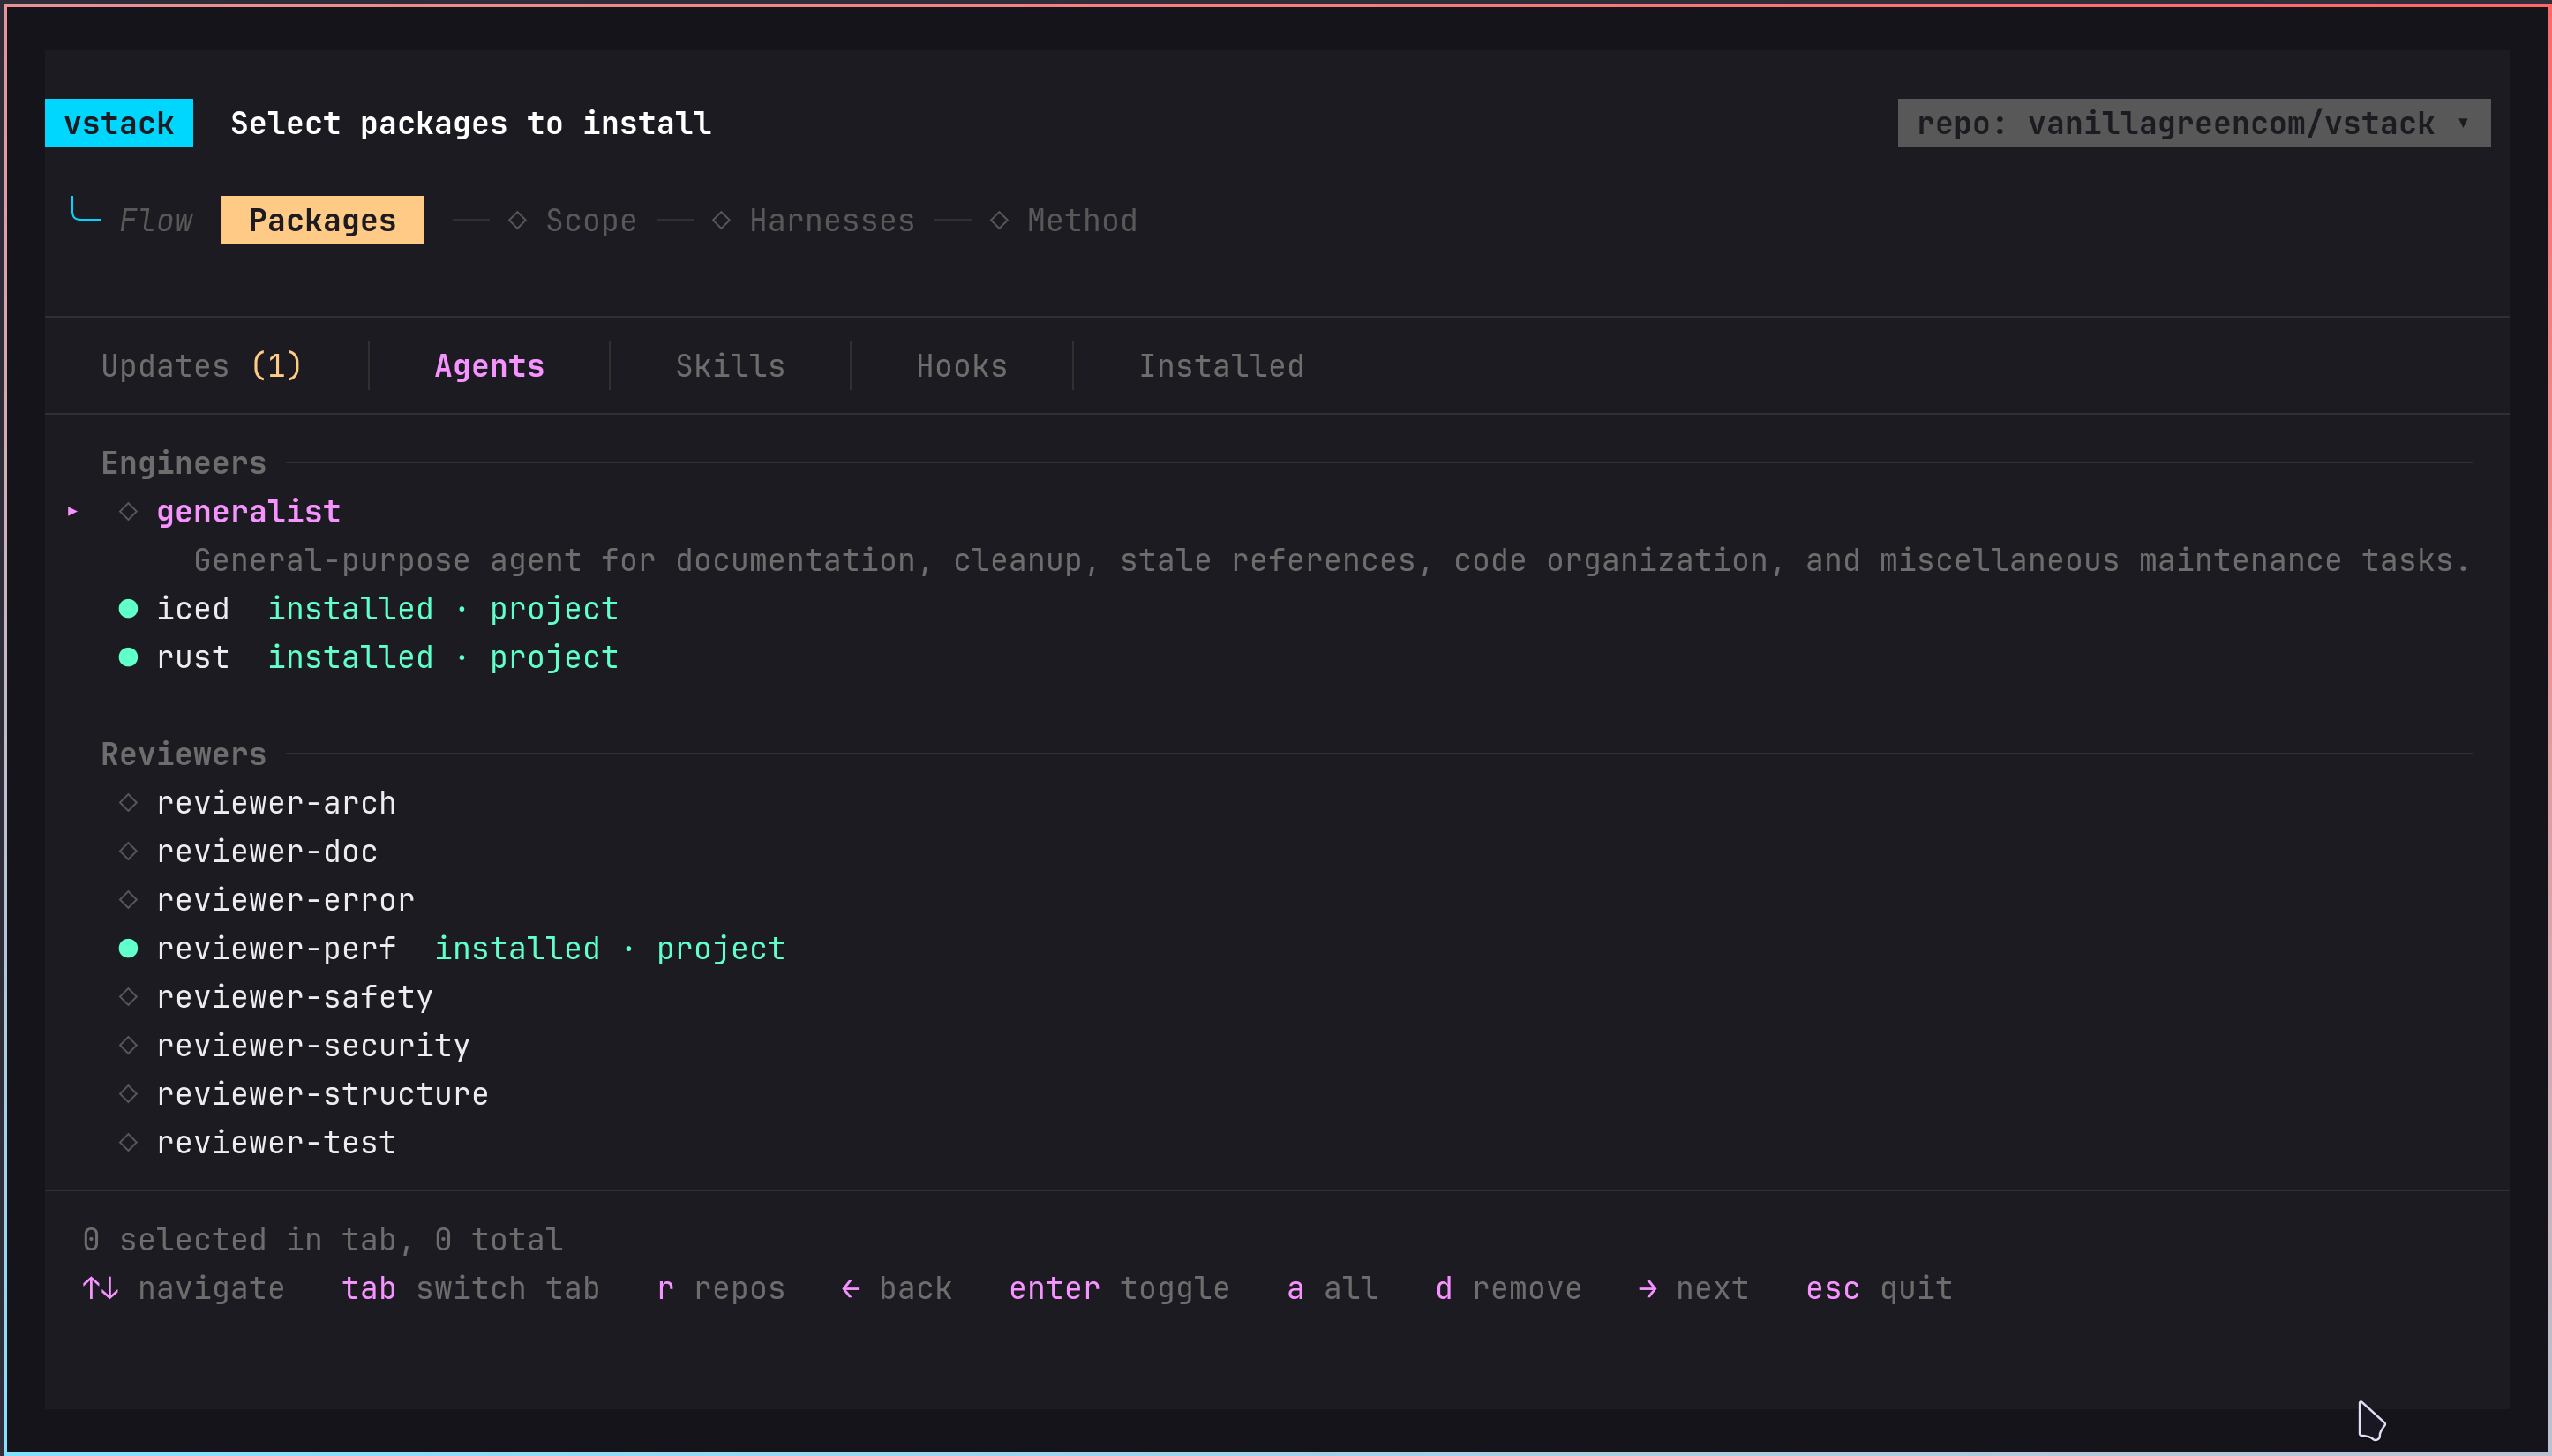
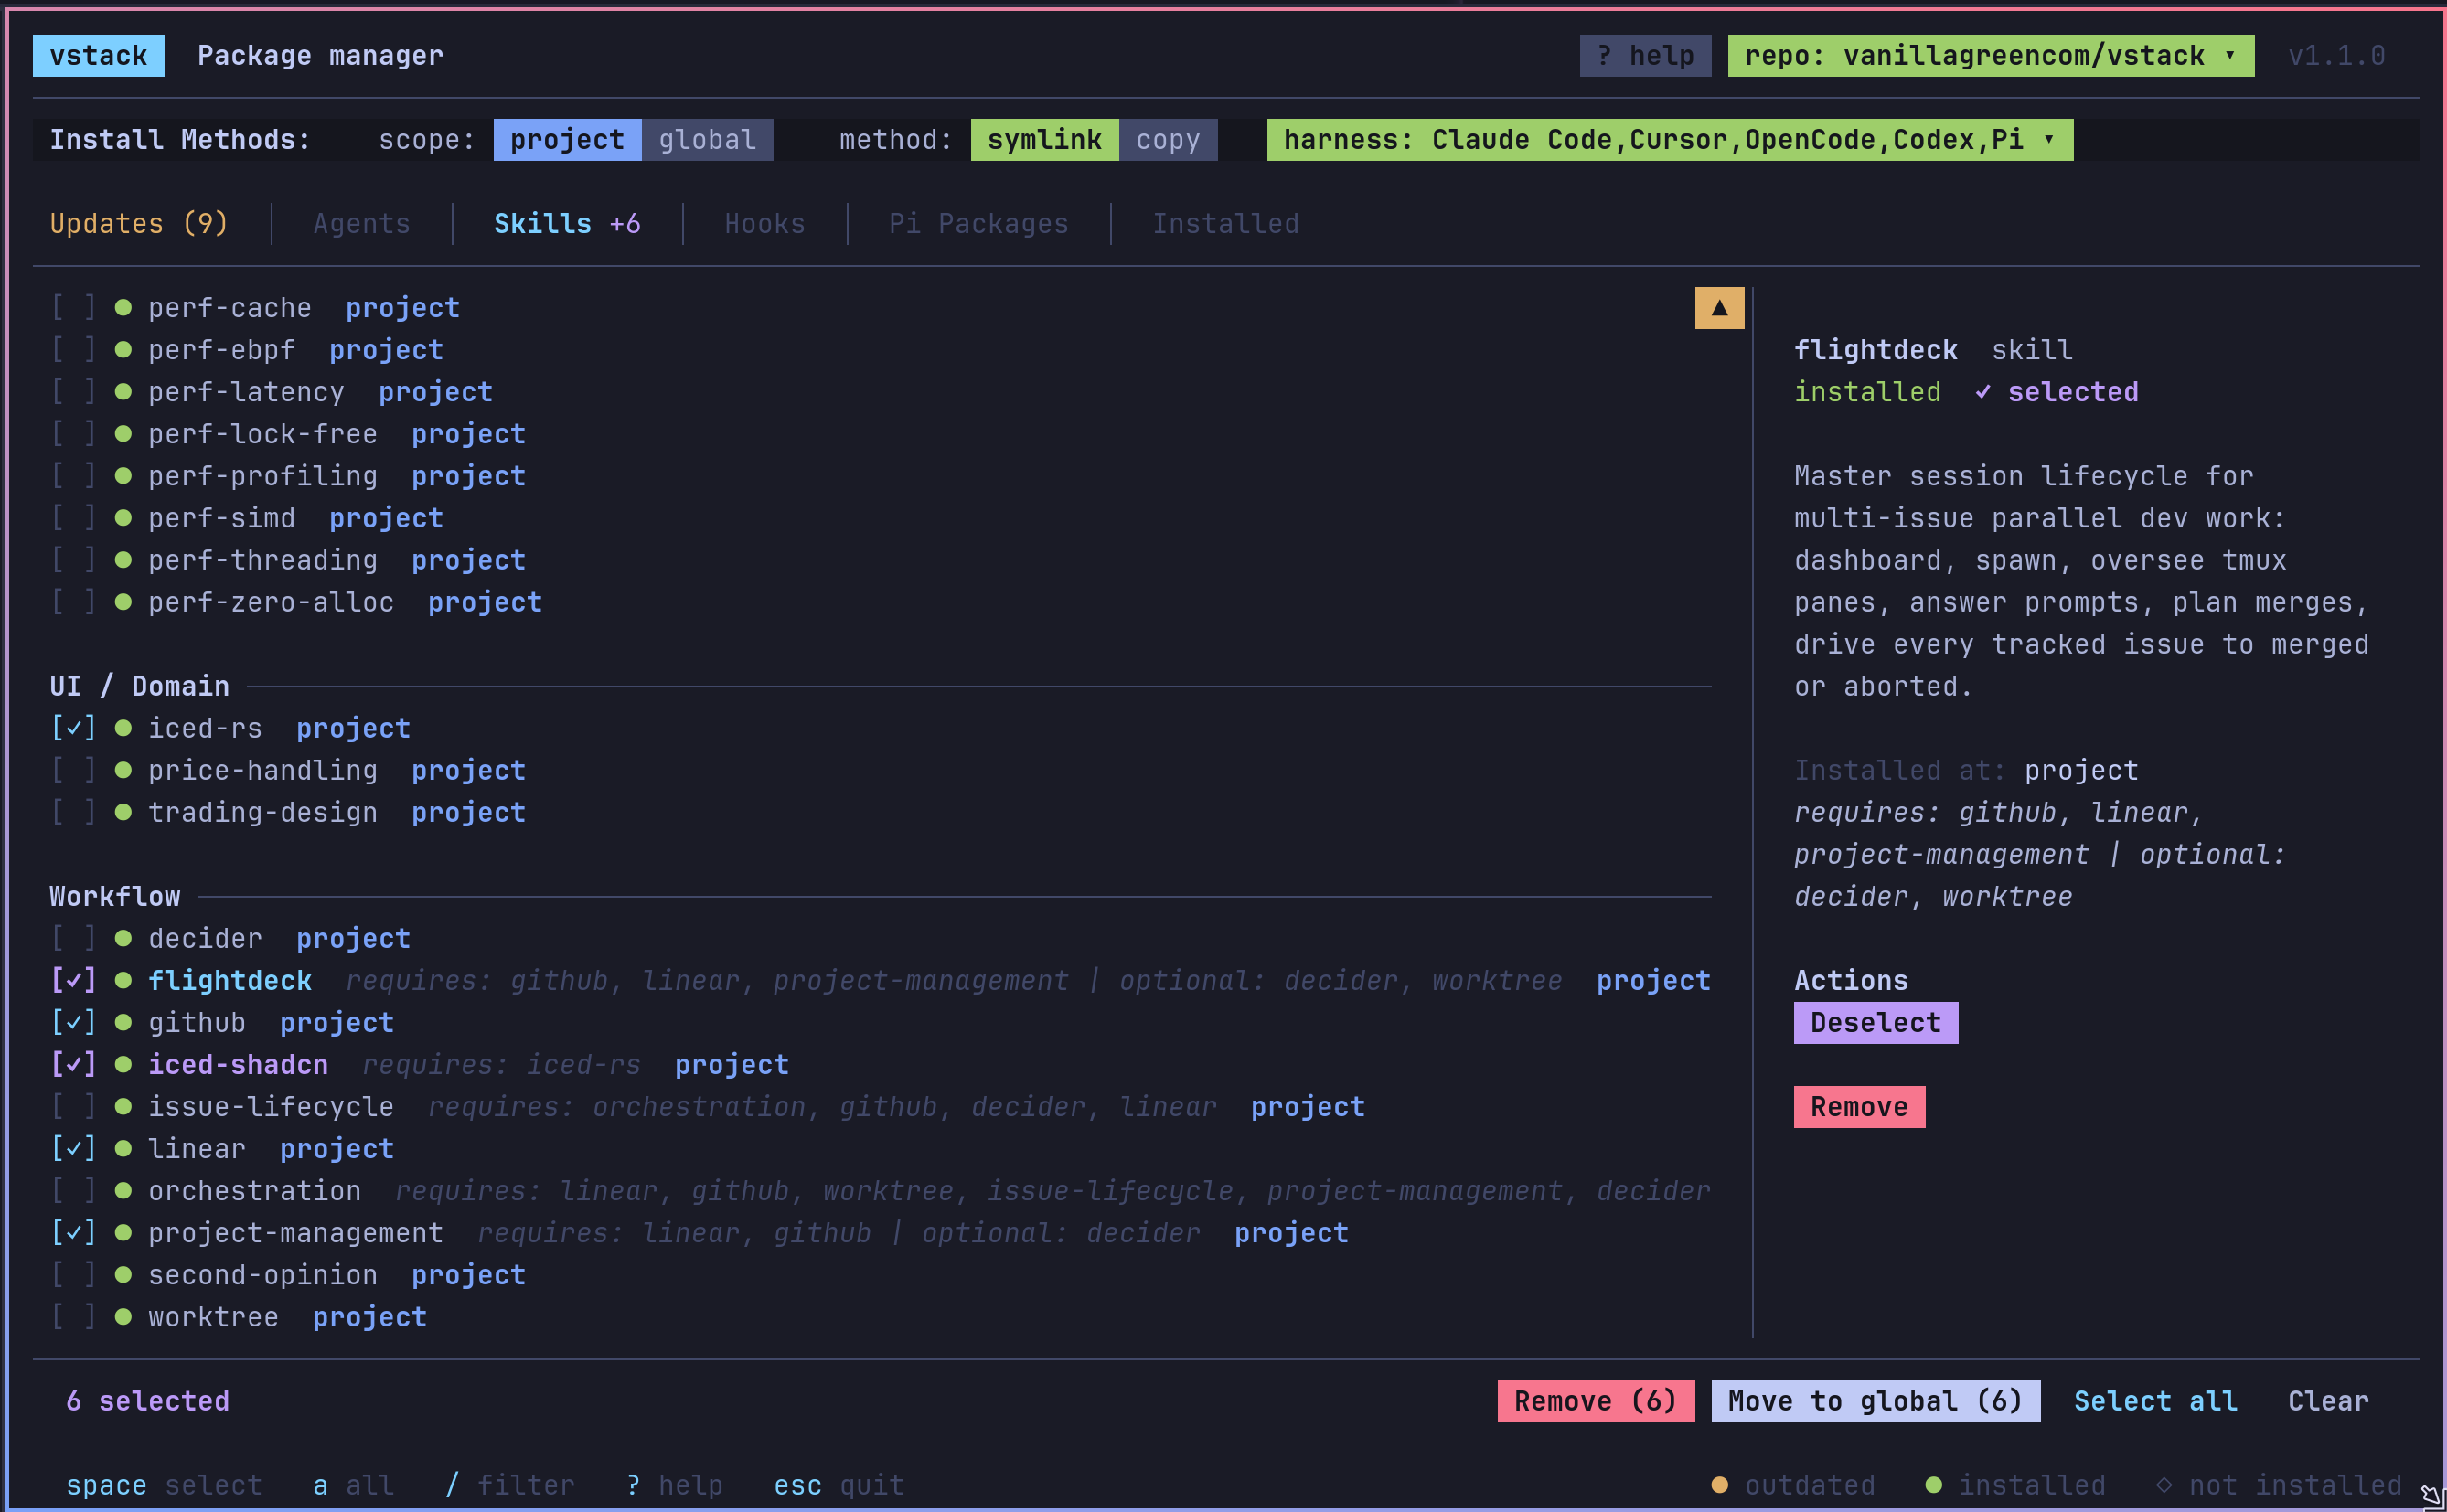
Refresh docs and vstack TUI asset

diff --git a/docs/pi-extension-settings-audit.md b/docs/pi-extension-settings-audit.md
@@ -4,7 +4,7 @@ This audit covers every local vstack Pi package under `pi-extensions/`. Each pac
 
 ## Runtime constraints
 
-Pi's public extension API does not currently expose a native API to inject a third-party tab into the built-in `/settings` UI or to unload already-loaded extension modules. `pi-extension-manager` therefore provides a full Pi-styled settings shell through `/extensions`, quick inline settings through `/extensions settings`, plus a best-effort `/settings` wrapper when explicitly enabled.
+Pi's public extension API does not currently expose a native API to inject a third-party tab into the built-in `/settings` UI or to unload already-loaded extension modules. `pi-extension-manager` therefore provides a full Pi-styled settings shell through `/extensions` plus quick inline settings through `/extensions settings`.
 
 Settings persist under `vstack.extensionManager.config.<packageName>` in Pi `settings.json` files to avoid colliding with Pi's own top-level `extensions` resource array.
 
@@ -13,7 +13,7 @@ Settings persist under `vstack.extensionManager.config.<packageName>` in Pi `set
 ### `pi-extension-manager`
 
 - Toggle: `enabled` disables the full manager UI after reload; `/extensions enable` remains as recovery.
-- Useful settings: show/hide built-in tools, default save scope, best-effort `/settings` wrapper.
+- Useful settings: show/hide built-in tools, default save scope.
 - Apply semantics: inventory settings are live; command registration changes need reload/restart.
 
 ### `pi-skills-manager`
@@ -30,9 +30,9 @@ Settings persist under `vstack.extensionManager.config.<packageName>` in Pi `set
 
 ### `pi-questions`
 
-- Toggle: `enabled` registers/unregisters the `question` tool, `/question-demo`, popup UI, and bridge question service after reload.
-- Useful settings: popup width/max-height, visible option rows, default header, bridge reply enablement. Large free-form answer results use Pi default tool-result truncation with temp-file preservation.
-- Apply semantics: popup and bridge settings are live.
+- Toggle: `enabled` registers/unregisters the `question` tool, editor/overlay question UI, and bridge question service after reload.
+- Useful settings: render mode, overlay width/max-height, visible option rows, default header, bridge reply enablement. Large free-form answer results use Pi default tool-result truncation with temp-file preservation.
+- Apply semantics: render/UI and bridge settings are live.
 
 ### `pi-session-bridge`
 
@@ -42,9 +42,9 @@ Settings persist under `vstack.extensionManager.config.<packageName>` in Pi `set
 
 ### `pi-subagents-tmux`
 
-- Toggle: `enabled` registers/unregisters the `subagent` tool, `/agents` command, and persistent pane polling after reload.
-- Useful settings: max parallel tasks, max one-shot concurrency, collapsed result size, result truncation/full-output preservation, parent/child poll intervals.
-- Apply semantics: execution/render/output limits are live; polling interval changes need reload/session restart.
+- Toggle: `enabled` registers/unregisters the `subagent`, `get_subagent_result`, and `steer_subagent` tools, `/agents` command, dashboard shortcut, and persistent pane polling after reload.
+- Useful settings: max parallel tasks, max one-shot concurrency, dashboard display, result truncation/full-output preservation, parent/child poll intervals, forced session-bridge loading for panes.
+- Apply semantics: execution/render/output limits are live; command/tool/shortcut registration and polling interval changes need reload/session restart.
 
 ### `pi-prompt-stash`
 
@@ -54,14 +54,14 @@ Settings persist under `vstack.extensionManager.config.<packageName>` in Pi `set
 
 ### `pi-qol`
 
-- Toggle: `enabled` installs/removes QOL statusline/editor helpers, `/qol`, and QOL compaction hooks after reload.
-- Useful settings: footer replacement, compact `π` prompt, input padding, git/dirty marker display, Shift+Enter newline, fallback newline key, image chip rendering, attachment count badge, session commands, terminal/tmux notification triggers/channels (including active-window bell suppression and tmux client-TTY native notifications for Ghostty), custom compaction model/profile/remote endpoint, branch summary override, idle compaction thresholds, hidden-thinking placeholder preference.
-- Apply semantics: git/dirty, image/status, notification, and compaction behavior settings are live; editor/footer and command registration need reload. Hidden-thinking is a settings contract only until Pi exposes an assistant-message renderer hook.
+- Toggle: `enabled` installs/removes QOL statusline/editor helpers, `/qol`, `/rename`, `/context`, `/search`, `/handoff`, and QOL compaction hooks after reload.
+- Useful settings: footer replacement, compact `π` prompt, input padding, git/dirty marker display, image chip rendering, session auto-rename, session search/context import, terminal/tmux notification triggers/channels, permission gate, custom compaction model/profile/remote endpoint, branch summary override, idle compaction thresholds, thinking timer.
+- Apply semantics: git/dirty, image/status, notification, and compaction behavior settings are live; editor/footer and command registration need reload.
 
 ### `pi-session-manager`
 
-- Toggle: `enabled` registers/unregisters `/sessions`, the status badge, and the optional shortcut after reload.
-- Useful settings: shortcut key, default scope, default sort, visible rows, overlay width, named-session status badge, trash-before-unlink deletion.
+- Toggle: `enabled` registers/unregisters `/sessions` and the optional shortcut after reload.
+- Useful settings: shortcut key, default scope, default sort, visible rows, overlay width, trash-before-unlink deletion.
 - Apply semantics: browse/render/delete settings are live; command and shortcut registration need reload.
 
 ### `pi-output-policy`
@@ -78,15 +78,21 @@ Settings persist under `vstack.extensionManager.config.<packageName>` in Pi `set
 
 ### `pi-task-panel`
 
-- Toggle: `enabled` registers/unregisters `todo_write`, `/todo`, panel widget, reminders, and shortcuts after reload.
-- Useful settings: default panel state, Ctrl+T takeover, Alt+T tri-state toggle, compact task count, active-task auto-advance/hide, expanded notes, auto-show, sequential task updates, model-facing workflow context/reminders, incomplete-task reminders.
-- Apply semantics: panel/reminder settings are live; shortcut registration needs reload.
+- Toggle: `enabled` registers/unregisters `tasks_write`, `/tasks`, panel widget, reminders, and shortcuts after reload.
+- Useful settings: default panel state, Ctrl+T takeover, Alt+T tri-state toggle, compact task count, active-task auto-advance/hide, expanded notes, auto-show, compact tool output, sequential task updates, model-facing workflow context/reminders, incomplete-task reminders.
+- Apply semantics: panel/reminder settings are live; command/tool/shortcut registration needs reload.
 
 ### `pi-caveman`
 
 - Toggle: `enabled` controls whether sessions start in caveman mode by default; `/caveman off` remains a session override.
 - Useful settings: default mode, status badge, clarity escape, resume policy, session override permission, normal-code/commit/review boundaries, custom prompt suffix.
 - Apply semantics: prompt-injection settings are live per turn; default startup mode applies at session start.
+
+### `pi-codex-minimal-tools`
+
+- Toggle: `enabled` registers/removes Codex/OpenAI augmentation tools and diagnostics after reload.
+- Useful settings: auto-enable, native OpenAI provider tools, image/web toggles, image output directory/model, direct Images API fallback, apply_patch controls, strict patch mode, absolute-path allowance.
+- Apply semantics: active-tool and fallback settings are live; provider shim and command/tool registration need reload.
 
 ## Manager behavior
 

diff --git a/README.md b/README.md
@@ -381,16 +381,16 @@ All vstack Pi packages declare `vstack.extensionManager.settings` metadata, incl
 
 - **Purpose:** Keeps the normal interactive Pi TUI visible while exposing a Unix-socket JSONL side channel for external control and event streaming.
 - **Enables:** send prompts, steer/follow-up, abort, inspect state/history, subscribe to live events, and answer pending `pi-questions` prompts.
-- **CLI:** `pi-bridge` for list/state/commands/stream/send/steer/follow-up/history/emit.
+- **CLI:** `pi-bridge` for list/state/commands/stream/send/steer/follow-up/history/emit; vstack installs a scope-local `bin/pi-bridge` symlink for package installs.
 - **Settings:** bridge dir, history limit, line cap, heartbeat, status badge, startup notifications.
 - **More:** [pi-extensions/session-bridge/README.md](pi-extensions/session-bridge/README.md).
 
 #### `pi-subagents-tmux`
 
 - **Purpose:** Delegates work to `.pi/agents`, `.claude/agents`, and user agents with isolated Pi context; supports persistent tmux panes.
-- **Tools/commands:** `subagent`, `get_subagent_result`, `steer_subagent`, `/agents`.
+- **Tools/commands:** `subagent`, `get_subagent_result`, `steer_subagent`, `/agents` browser plus `/agents start|send|attach|stop|status|collect|transcripts|trace|toggle`.
 - **Behavior:** persistent pane tasks keep a durable task registry; `steer_subagent` only sends through `pi-session-bridge` when it can target the exact child pane session file, otherwise it queues an explicit inbox fallback rather than matching by cwd.
-- **Settings:** parallel task limit, concurrency, collapsed result size, result truncation/full-output preservation, pane polling intervals, forced session-bridge loading for panes.
+- **Settings:** parallel task limit, concurrency, dashboard display, result truncation/full-output preservation, pane polling intervals, forced session-bridge loading for panes.
 - **More:** [pi-extensions/pi-subagents-tmux/README.md](pi-extensions/pi-subagents-tmux/README.md).
 
 #### `pi-prompt-stash`
@@ -403,16 +403,23 @@ All vstack Pi packages declare `vstack.extensionManager.settings` metadata, incl
 #### `pi-qol`
 
 - **Purpose:** Compact statusline/`π` prompt, reliable multiline input, styled image placeholder chips, manual/auto session naming, session search/context import, handoff, permission prompts, terminal/tmux notifications, custom compaction, and collapsed-thinking timer.
-- **Commands:** `/qol status`, `/qol rename`, `/qol rename status`, `/qol rename full`, `/qol notify-test`, `/qol attachments`, `/qol collapse`, `/qol reset`, `/session-name`, `/search`, `/handoff`.
-- **Settings:** statusline/footer replacement, compact prompt, git/dirty marker display, Shift+Enter handling, fallback newline key, image chips/status, auto session rename, session search/import, handoff, permission gate, notification triggers/channels, custom/remote/idle compaction, branch summary override, thinking timer.
+- **Commands:** `/qol status`, `/qol rename`, `/qol rename full`, `/qol notify-test`, `/rename [name]`, `/context`, `/search [query]`, `/search refresh`, `/handoff <goal>`.
+- **Settings:** statusline/footer replacement, compact prompt, git/dirty marker display, image chips/status, auto session rename, session search/import, context display, handoff, permission gate, notification triggers/channels, custom/remote/idle compaction, branch summary override, thinking timer.
 - **More:** [pi-extensions/pi-qol/README.md](pi-extensions/pi-qol/README.md).
 
 #### `pi-session-manager`
 
-- **Purpose:** Polished Pi session browser for searching, threaded lineage review, resuming, renaming, and safely deleting sessions.
-- **Commands/UI:** `/sessions [current|all]`; configurable idle shortcut (`Ctrl+Shift+R` by default).
-- **Settings:** enablement, shortcut, default scope/sort, overlay width, visible rows, named-session status badge, trash-before-unlink deletion.
+- **Purpose:** Polished Pi session browser for searching, threaded lineage review, resuming, renaming, and safely deleting one or all shown sessions.
+- **Commands/UI:** `/sessions`; Current/All scope is switched in the popup, with a configurable idle shortcut (`Ctrl+Shift+R` by default).
+- **Settings:** enablement, shortcut, default scope/sort, overlay width, visible rows, trash-before-unlink deletion.
 - **More:** [pi-extensions/pi-session-manager/README.md](pi-extensions/pi-session-manager/README.md).
+
+#### `pi-codex-minimal-tools`
+
+- **Purpose:** Adds Codex-style `view_image`, `apply_patch`, native OpenAI `image_generation`/`web_search`, and diagnostics without replacing Pi's native file/shell/edit tools.
+- **Commands/tools:** `/codex-minimal-tools`, `/codex-minimal-tools doctor`, `/codex-minimal-tools settings`; `view_image`, `apply_patch`, and supported provider tools.
+- **Settings:** auto-enable, native provider tool shim, image/web toggles, image output directory/model, direct Images API fallback, patch-mode controls.
+- **More:** [pi-extensions/pi-codex-minimal-tools/README.md](pi-extensions/pi-codex-minimal-tools/README.md).
 
 #### `pi-output-policy`
 

diff --git a/pi-extensions/session-bridge/README.md b/pi-extensions/session-bridge/README.md
@@ -9,10 +9,10 @@ Pi package that keeps the normal interactive Pi TUI visible while exposing a str
 Via vstack:
 
 ```bash
-vstack add --agent pi
+vstack add vanillagreencom/vstack
 ```
 
-The vstack TUI lists this package under **Pi Extensions** and registers it in Pi's `settings.json`.
+Select Pi as the target harness and choose **pi-session-bridge** from the **Pi Extensions** tab. Non-interactive Pi installs can use `vstack add vanillagreencom/vstack --harness pi -y` to install the catalog's Pi agents/skills/hooks and Pi packages. vstack registers the package in Pi's `settings.json`.
 
 Manual install:
 
@@ -75,14 +75,7 @@ If exactly one active bridge exists, target flags are optional. Target filters i
 
 For `pi-questions` tabs with `allowCustom=true`, answer strings may be free-form text.
 
-When installed via vstack as a local-path Pi package, the `pi-bridge` binary is **not** automatically placed on `PATH` because Pi local installs do not expose npm `bin` entries. Use one of:
-
-```bash
-node /path/to/pi-extensions/session-bridge/bin/pi-bridge.js list
-ln -sf /path/to/pi-extensions/session-bridge/bin/pi-bridge.js ~/.local/bin/pi-bridge
-```
-
-Or use the raw socket protocol below from any language.
+When installed via vstack, `pi-bridge` is symlinked into the install scope's `bin/` directory (`.pi/bin/pi-bridge` for project scope, `~/.pi/agent/bin/pi-bridge` for global scope). Add that directory to `PATH`, run it by path, or use the raw socket protocol below from any language.
 
 ## Raw protocol
 

diff --git a/pi-extensions/pi-subagents-tmux/README.md b/pi-extensions/pi-subagents-tmux/README.md
@@ -72,6 +72,9 @@ Persistent pane delegations return a `taskId`. Keep it if you need to retrieve o
 | `/agents stop <name>` | Stop a persistent pane. |
 | `/agents status` | Show pane status. |
 | `/agents collect` | Collect completed pane results. |
+| `/agents transcripts` | Open/list recent subagent transcripts. |
+| `/agents trace <ref>` | Open/show one trace by task id, short id, or trace ref. |
+| `/agents toggle` | Toggle the persistent dashboard. |
 
 Arguments support autocomplete, including known agent names for `show`, `start`, `send`, `attach`, and `stop`.
 
@@ -137,6 +140,7 @@ A future backend could use Pi SDK `createAgentSession()` for non-pane one-shot s
 `pi-extension-manager` exposes:
 
 - `maxParallelTasks` and `maxConcurrency` for one-shot delegation limits.
+- Dashboard controls: `dashboard`, `quietInlineWhenDashboard`, `dashboardMaxItems`, `dashboardCollapsed`, `dashboardShortcut`, and `treeStyle`.
 - `collapsedItemCount` for compact result rendering.
 - `truncateResults`, `resultMaxBytes` (default 102400), `resultMaxLines` (default 4000), and `preserveFullOutput` for result truncation. Oversized one-shot outputs are saved under `~/.pi/agent/vstack/pi-subagents-tmux/sessions/<session-id>/outputs/` when preservation is enabled.
 - `completionPollMs` and `childInboxPollMs` for persistent pane polling intervals.

diff --git a/skills/flightdeck/workflows/start.md b/skills/flightdeck/workflows/start.md
@@ -18,7 +18,7 @@ Initialize development session, display status, select work, evaluate research, 
 
 3. **If build errors or auth failures** → fix locally before proceeding to § 1.3.
 
-4. **If dashboard shows "Worktree session"** → STOP. Wrong workflow. Use [start-worktree.md](start-worktree.md) instead.
+4. **If dashboard shows "Worktree session"** → STOP. Wrong workflow. Use the orchestration workflow from the worktree pane instead: [`../../orchestration/workflows/start.md`](../../orchestration/workflows/start.md).
 
 ### 1.3 Select Work
 
@@ -126,7 +126,7 @@ After all issues processed → § 3.
 
 5. **Set labels**: `agent:[TYPE]` per domain, appropriate stack labels
 
-6. **Set blocking relations**: Read [agent-sequencing.md](agent-sequencing.md). Include relations to/from existing children.
+6. **Set blocking relations**: infer dependency order from parent requirements, domain ownership, and existing child blockers. Include relations to/from existing children; ask the user if sequencing is ambiguous.
 
 7. **Rewrite parent description**: Replace `## Requirements` with `## Sub-Issues` listing ALL children (existing + new), add `## Context`, remove implementation-level detail.
 

diff --git a/pi-extensions/pi-questions/README.md b/pi-extensions/pi-questions/README.md
@@ -63,7 +63,7 @@ Very large result JSON is truncated to Pi's default 50KB/2000-line tool limit an
 | Key | Action |
 | --- | --- |
 | `←` / `→` or `Tab` | Switch tabs. |
-| `↑` / `↓` or `j` / `k` | Move selection. |
+| `↑` / `↓` | Move selection. |
 | `Enter` | Pick/advance/submit; on the custom row, open text input. |
 | `Space` | Toggle multi-select rows; on the custom row, open text input. |
 | `Esc` | Cancel the request, or leave custom text input. |